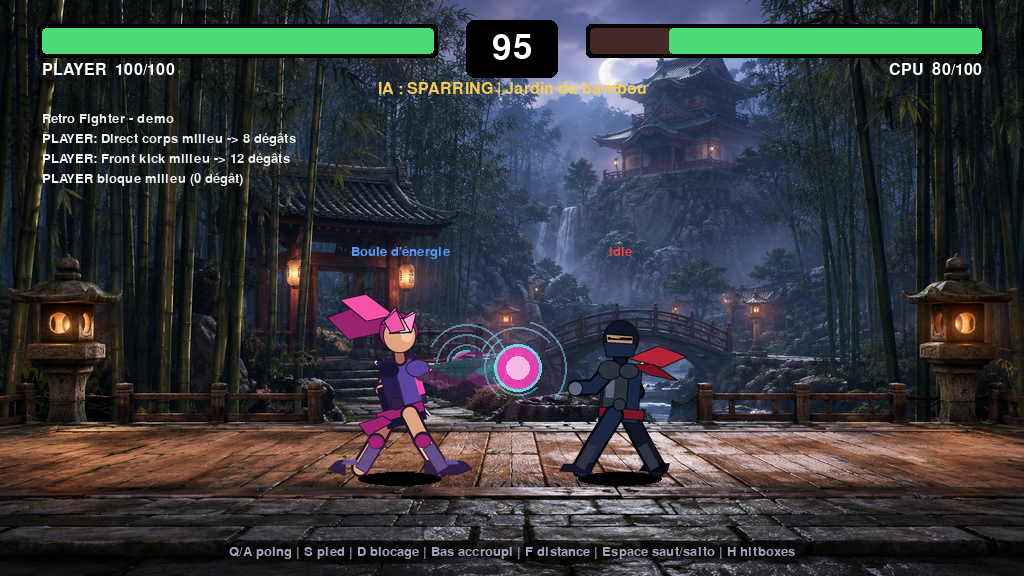
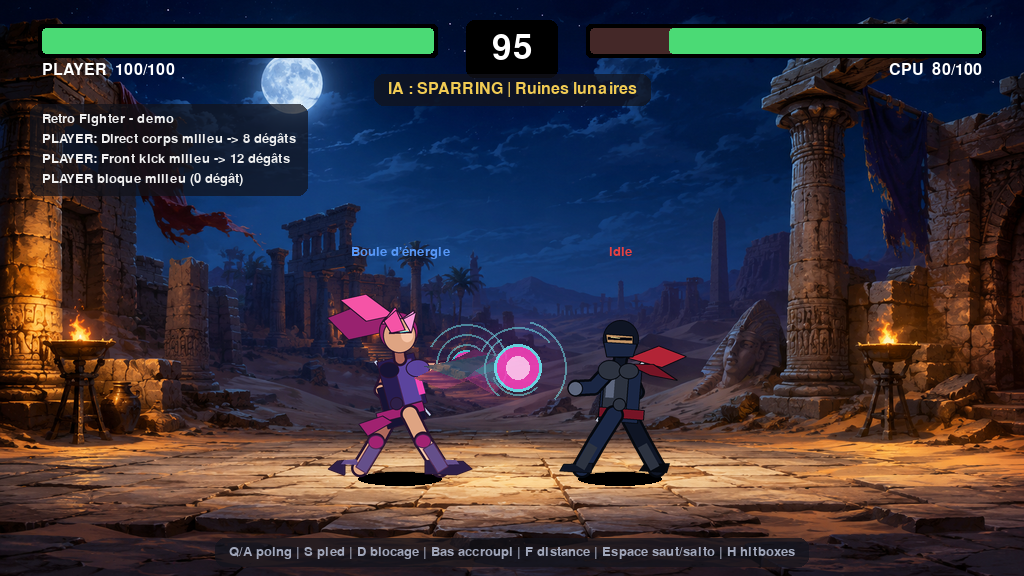
Add semi-transparent backdrops behind menu/HUD text for readability
The arena backgrounds (photographic, often bright/busy) made the muted
gray UI text illegible in places, especially on the snow mountain and
bamboo garden arenas. Add Renderer.draw_backdrop() (a rounded, ~72%-opaque
dark panel) behind every text block that sits directly over the
background: the menu's title/subtitle/mode-line group and its controls
list, and in-match the mode/stage line, controls hint, and combat log —
the health bars and timer already had their own solid backing and didn't
need this.

diff --git a/retro_fighter/renderer.py b/retro_fighter/renderer.py
@@ -59,6 +59,14 @@ class Renderer:
     def stage_name(self) -> str:
         return self.stage_backgrounds.get_name(self.stage_index)
 
+    def draw_backdrop(self, rect: pygame.Rect, alpha: int = 185, color: tuple[int, int, int] = COLOR_BG, radius: int = 10) -> None:
+        """Semi-transparent panel behind text, so it stays readable over the
+        photographic arena backgrounds (plain colors/gradients underneath the
+        old procedural backdrop never needed this)."""
+        panel = pygame.Surface(rect.size, pygame.SRCALPHA)
+        pygame.draw.rect(panel, (*color, alpha), panel.get_rect(), border_radius=radius)
+        self.screen.blit(panel, rect.topleft)
+
     def draw(self, game: "Game") -> None:  # type: ignore[name-defined]
         self.draw_background()
         self.draw_fighter(game.player)
@@ -80,14 +88,20 @@ class Renderer:
     def draw_menu(self, selected_index: int, demo_mode: bool = False) -> None:
         self.draw_background()
         title = self.title_font.render("RETRO FIGHTER", True, COLOR_TEXT)
-        self.screen.blit(title, title.get_rect(center=(WINDOW_WIDTH // 2, 96)))
+        title_rect = title.get_rect(center=(WINDOW_WIDTH // 2, 96))
 
         subtitle = self.font.render("Prototype Python/Pygame - combat 2D à trois hauteurs", True, COLOR_MUTED)
-        self.screen.blit(subtitle, subtitle.get_rect(center=(WINDOW_WIDTH // 2, 148)))
+        subtitle_rect = subtitle.get_rect(center=(WINDOW_WIDTH // 2, 148))
 
         mode_label = "Démo : IA vs IA" if demo_mode else "Joueur vs IA"
         demo_surf = self.font.render(f"Mode : {mode_label}  (Tab pour changer)", True, COLOR_YELLOW if demo_mode else COLOR_MUTED)
-        self.screen.blit(demo_surf, demo_surf.get_rect(center=(WINDOW_WIDTH // 2, 178)))
+        demo_rect = demo_surf.get_rect(center=(WINDOW_WIDTH // 2, 178))
+
+        header_backdrop = title_rect.union(subtitle_rect).union(demo_rect).inflate(56, 28)
+        self.draw_backdrop(header_backdrop)
+        self.screen.blit(title, title_rect)
+        self.screen.blit(subtitle, subtitle_rect)
+        self.screen.blit(demo_surf, demo_rect)
 
         modes = [
             ("1", "Sparring", "l'adversaire reste immobile"),
@@ -112,9 +126,14 @@ class Renderer:
             "En match : 1-4 changer IA | Tab mode démo | R reset | H hitboxes | P pause | Échap quitter",
             "Appuie sur Entrée ou sur 1-4 pour lancer.",
         ]
-        for i, line in enumerate(controls):
-            surf = self.small_font.render(line, True, COLOR_MUTED)
-            self.screen.blit(surf, surf.get_rect(center=(WINDOW_WIDTH // 2, 465 + i * 24)))
+        control_surfaces = [self.small_font.render(line, True, COLOR_MUTED) for line in controls]
+        control_rects = [
+            surf.get_rect(center=(WINDOW_WIDTH // 2, 465 + i * 24)) for i, surf in enumerate(control_surfaces)
+        ]
+        footer_backdrop = control_rects[0].unionall(control_rects[1:]).inflate(40, 20)
+        self.draw_backdrop(footer_backdrop)
+        for surf, rect in zip(control_surfaces, control_rects):
+            self.screen.blit(surf, rect)
 
     def draw_background(self) -> None:
         if self.stage_backgrounds.draw(self.screen, self.stage_index):
@@ -206,21 +225,29 @@ class Renderer:
         demo_suffix = " | DÉMO (IA vs IA)" if game.demo_mode else ""
         mode_text = f"IA : {game.ai_mode.upper()}{demo_suffix} | {self.stage_name()}"
         mode_surf = self.font.render(mode_text, True, COLOR_YELLOW)
-        self.screen.blit(mode_surf, mode_surf.get_rect(center=(WINDOW_WIDTH // 2, 90)))
+        mode_rect = mode_surf.get_rect(center=(WINDOW_WIDTH // 2, 90))
+        self.draw_backdrop(mode_rect.inflate(28, 14))
+        self.screen.blit(mode_surf, mode_rect)
 
         if game.demo_mode:
             controls = "Mode démo : IA vs IA | Tab repasser en Joueur vs IA | R reset | P pause | H hitboxes"
         else:
             controls = "Q/A poing | S pied | D blocage | Bas accroupi | F distance | Espace saut/salto | H hitboxes"
         control_surf = self.small_font.render(controls, True, COLOR_MUTED)
-        self.screen.blit(control_surf, control_surf.get_rect(center=(WINDOW_WIDTH // 2, WINDOW_HEIGHT - 24)))
+        control_rect = control_surf.get_rect(center=(WINDOW_WIDTH // 2, WINDOW_HEIGHT - 24))
+        self.draw_backdrop(control_rect.inflate(28, 14))
+        self.screen.blit(control_surf, control_rect)
 
         # Event log
-        y = 112
-        for msg in game.messages[-5:]:
-            surf = self.small_font.render(msg, True, COLOR_TEXT)
-            self.screen.blit(surf, (42, y))
-            y += 20
+        messages = game.messages[-5:]
+        if messages:
+            line_surfaces = [self.small_font.render(msg, True, COLOR_TEXT) for msg in messages]
+            log_rect = pygame.Rect(42, 112, max(s.get_width() for s in line_surfaces), len(line_surfaces) * 20 - 4)
+            self.draw_backdrop(log_rect.inflate(24, 16))
+            y = 112
+            for surf in line_surfaces:
+                self.screen.blit(surf, (42, y))
+                y += 20
 
     def draw_health_bar(self, fighter: Fighter, x: int, y: int, align: str) -> None:
         width = 392